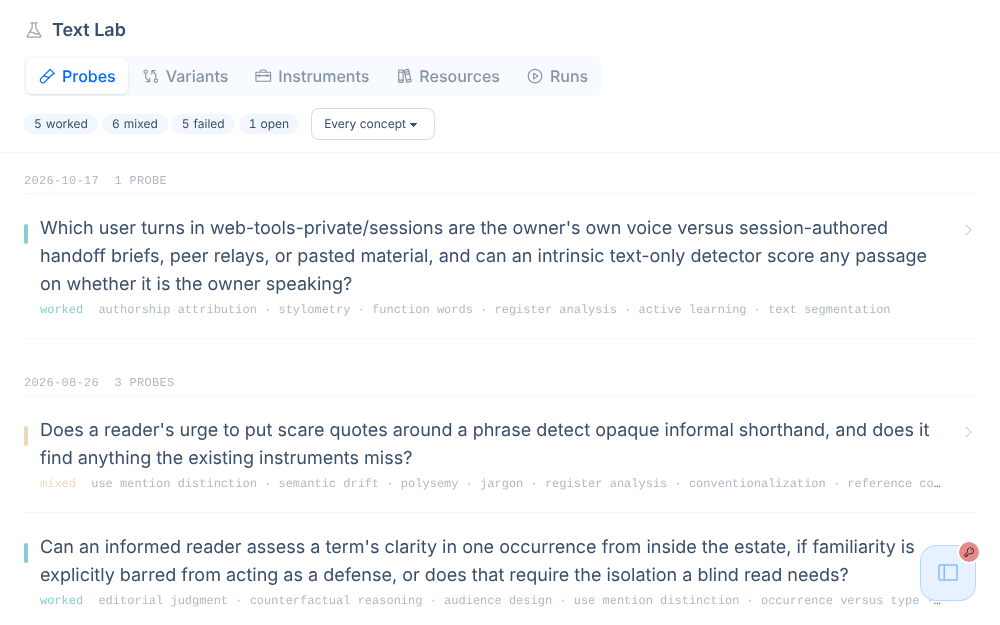
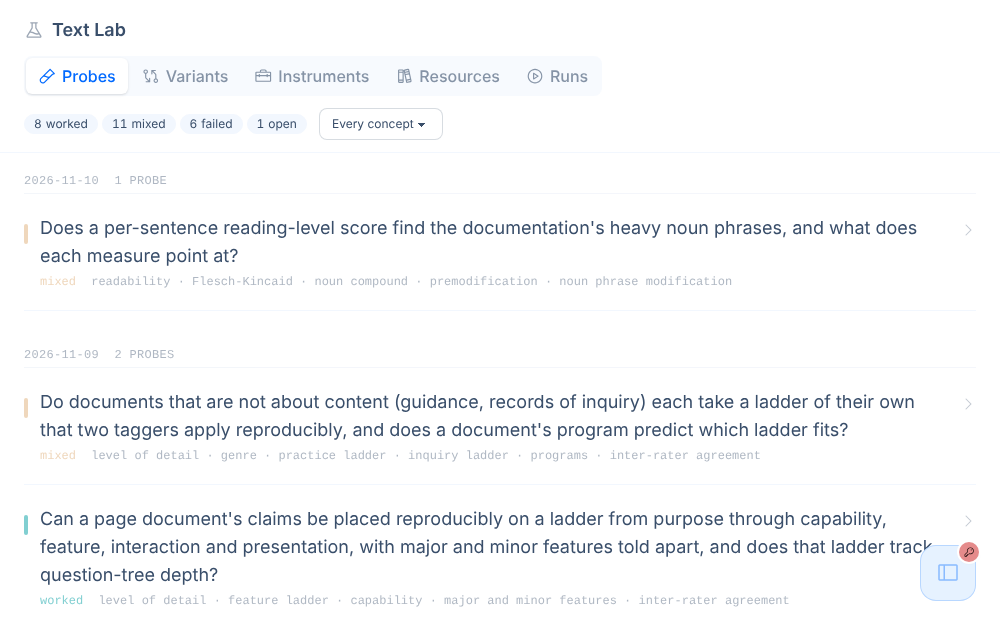
Text Lab: list the noun-chain and reading-grade run
A row under Runs for home's projects/text/runs/2026-11-10-noun-stacks,
whose page ranks documentation files and sentences by noun chains of
four or more and by a Flesch-Kincaid grade of 20 or higher.

Claude-Session: https://claude.ai/code/session_01Ug8CX8f1Cs45v1PjqzUqbw

diff --git a/pages/text-lab.html b/pages/text-lab.html
@@ -131,6 +131,10 @@
       // produced results and prose but no page carries an empty one, and the
       // row says so rather than linking its folder twice.
       RUNS: [
+        { date: '2026-11-10', title: 'Noun chains and long sentences',
+          line: 'Where the documentation runs four or more nouns together, and which sentences pass a reading grade of 20.',
+          dir: 'projects/text/runs/2026-11-10-noun-stacks',
+          page: 'projects/text/runs/2026-11-10-noun-stacks/app/index.html' },
         { date: '2026-08-26', title: 'The scare-quote test',
           line: 'Whether a reader\'s urge to put quotation marks round a term detects the term doing unearned work.',
           dir: 'projects/text/runs/2026-08-26-scare-quote', page: '' },
